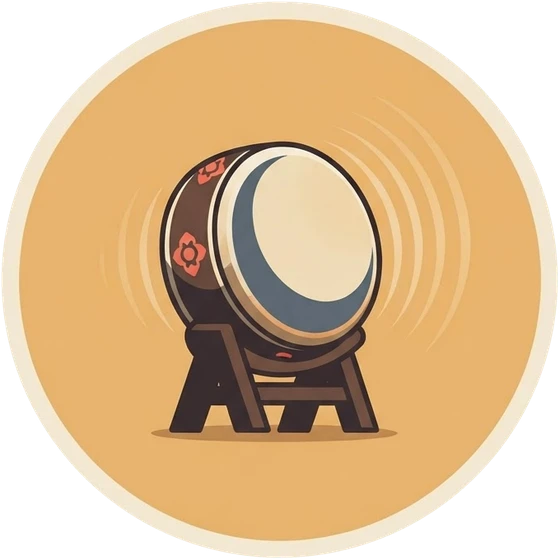
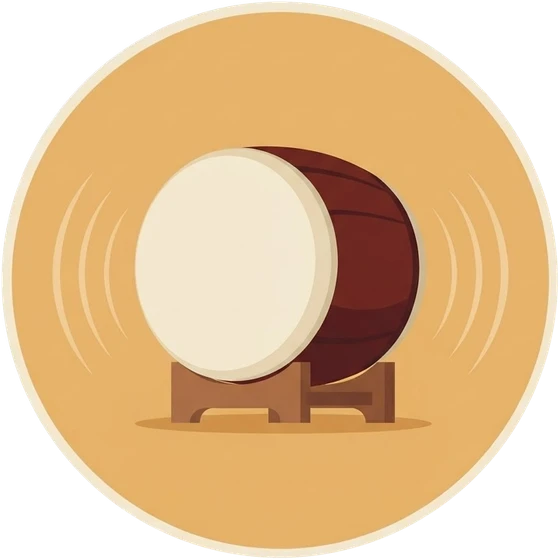
v206 표지 일러스트 추가: 42 북·44 자석 다시, 45 얼음산, 47 겨울나무, 48 서리, 49 고드름
Claude-Session: https://claude.ai/code/session_01BERWee5SW6nSaidm893bbT

diff --git a/gunggeum/pieces/ep/47.js b/gunggeum/pieces/ep/47.js
@@ -13,18 +13,10 @@ const leafD=(L)=>`M0,0C${L*.35},${-L*.3} ${L*.75},${-L*.25} ${L},0C${L*.75},${L*
 
 EPX[47]={day:'과학 16',topic:'겨울눈',cat:'나무의 겨울',field:'과학',frame:'v2',
  cover:{h:'나무는<br>겨울을 어떻게<br>날까?',draw(S){
-   const GY=640;wl(S,648,GY,1504,GY,W0m);
-   // 잎 진 나무 가지(선) — 가지 끝마다 겨울눈
-   const T=[[[1060,GY],[1060,470],[1000,380],[930,300],[880,200]],[[1060,470],[1150,360],[1240,250],[1290,160]],[[1000,380],[860,330],[760,300]],[[1150,360],[1300,340],[1420,300]],[[930,300],[980,200],[1000,140]],[[1240,250],[1200,170]]];
-   twig(S,T[0],18);twig(S,T[1],12);T.slice(2).forEach(P=>twig(S,P,7));
-   const tips=T.map(P=>P[P.length-1]);const B=tips.map(([x,y],k)=>{const g=bud(S,x,y,0,{plain:true});return g;});
-   const BB=tips.map(([x,y],k)=>({x,y,b:bud(S,x,y-2,34,{col:k===1?WO:W0,plain:true})}));
-   el('path',{d:`M${tips[1][0]+14},${tips[1][1]-20}H1490V${tips[1][1]+40}`,fill:'none',stroke:W0m,'stroke-width':2},S);tx(S,1490,tips[1][1]+76,'겨울눈','v28','end');
-   tx(S,648,GY+38,'관측 · 12월 잎 진 나무','v22m');
-   // 땅의 낙엽(크림 작은 잎)
-   const q=rnd(47);for(let i=0;i<14;i++)el('path',{d:leafD(30),fill:W0,transform:`translate(${700+q()*780},${GY-6-q()*8}) rotate(${(q()-.5)*40})`},S);
-   let on=false;
-   return ()=>{if(on||calm())return;on=true;loop(S,t=>{const c=t%5,e=c<1?EO(c):c<4?1:1-(c-4);BB.forEach(o=>o.b.g.setAttribute('transform',`translate(${o.x},${o.y-2}) scale(${.75+.25*e})`));});};}},
+   /* v206: 생성 일러스트 */
+   const P=el('g',{},S);el('image',{href:'art/47-tree.webp',x:860,y:150,width:500,height:500},P);
+   tx(S,1110,712,'잎 진 나무와 겨울눈','v22m','middle');
+   let on=false;return ()=>{if(on||calm())return;on=true;loop(S,t=>P.setAttribute('transform',`translate(0,${(4*Math.sin(t*.6)).toFixed(1)})`));};}},
  scenes:[
   {k:'잎 떨구기',h:'나무는 겨울 전에<br>잎을 떨군다',b:'잎을 달고 있으면 몸속 물이 자꾸 빠져나가. 그래서 나무는 잎을 떨궈 <em>물을 아껴</em>.',steps:['잎 떨구기'],
    draw(S){const GY=640;wl(S,640,GY,1504,GY,W0);

diff --git a/gunggeum/pieces/ep/49.js b/gunggeum/pieces/ep/49.js
@@ -9,17 +9,10 @@ function vTherm(S,x,y1,y2,y0,lab0){wl(S,x,y1,x,y2,W0m);for(let y=y1,i=0;y<=y2+1;
  wl(S,x-24,y0,x+10,y0,W0);tx(S,x+20,y0+8,lab0,'v22');}
 EPX[49]={day:'12월 4일',topic:'고드름',cat:'겨울 얼음',field:'과학',frame:'v2',
  cover:{h:'고드름은<br>어떻게<br>자랄까?',draw(S){
-   const Y=170;eave(S,Y);tx(S,640,Y-58,'처마 끝 · 겨울 낮','v22m');
-   const L=[[720,150,36],[800,300,52],[900,210,40],[1010,420,64],[1110,250,44],[1200,340,54],[1300,180,38],[1390,270,46]];
-   L.forEach(([x,l,w])=>ice(S,x,Y+14,l,w));
-   // 길이 눈금(오른쪽)
-   const RX=1480;wl(S,RX,Y+14,RX,Y+14+440,W0m);for(let i=0;i<=22;i++){const y=Y+14+i*20;wl(S,RX,y,RX-(i%5===0?18:10),y,i%5===0?W0:W0m);}tx(S,RX,Y+14+480,'길이','v22m','end');
-   wl(S,640,690,1504,690,W0m);tx(S,640,660,'영하의 공기','v22m');
-   // 물방울 하나가 가장 긴 고드름 겉을 타고 내려가 끝에서 떨어짐(반복은 표지만)
-   const d=wdot(S,1010+30,Y+18,7,WO);let on=false;
-   return ()=>{if(on||calm())return;on=true;loop(S,t=>{const c=(t%3)/3;let y,x;
-     if(c<.75){const k=c/.75;y=Y+18+k*(420-6);x=1010+(32*(1-k*k*.95))*(1-k);}else{const k=(c-.75)/.25;y=Y+14+420+k*120;x=1010;}
-     d.setAttribute('cx',x.toFixed(1));d.setAttribute('cy',y.toFixed(1));d.setAttribute('opacity',c<.95?1:0);});};}},
+   /* v206: 생성 일러스트 */
+   const P=el('g',{},S);el('image',{href:'art/49-icicle.webp',x:860,y:150,width:500,height:500},P);
+   tx(S,1110,712,'처마 끝 고드름','v22m','middle');
+   let on=false;return ()=>{if(on||calm())return;on=true;loop(S,t=>P.setAttribute('transform',`translate(0,${(4*Math.sin(t*.6)).toFixed(1)})`));};}},
  scenes:[
   {k:'녹은 물',h:'지붕 위 눈이<br>녹아 흘러내린다',b:'햇볕을 받으면 지붕 위 눈이 조금씩 녹아. 그런데 처마 밑 공기는 <em>0도보다 추워</em>.',steps:['햇볕 비추기'],
    draw(S){// 비스듬한 지붕 단면: 왼쪽 위 → 오른쪽 아래 처마 끝(1180,380)

diff --git a/gunggeum/pieces/ep/48.js b/gunggeum/pieces/ep/48.js
@@ -17,16 +17,10 @@ function thermo(p,x,yTop,yBot,tTop,tBot,lab){wl(p,x,yTop,x,yBot,W0m);const Y=t=>
 
 EPX[48]={day:'과학 17',topic:'서리',cat:'날씨',field:'과학',frame:'v2',
  cover:{h:'서리는<br>어떻게<br>생길까?',draw(S){
-   const GY=620;wl(S,648,GY,1504,GY,W0);
-   const B=[[740,300,40],[850,380,-30],[960,260,60],[1080,420,-50],[1200,330,30],[1310,280,-40],[1420,360,40]].map(([x,h,b])=>blade(S,x,GY,h,b,44));
-   const F=B.map((bl,k)=>frost(S,bl.P,16,W0,k+3));
-   // 온도 눈금(가로): 0도 = 산호
-   const y0=130;wl(S,880,y0,1504,y0,W0m);for(let i=0;i<=12;i++){const x=880+i*52;wl(S,x,y0,x,y0+(i%4===0?18:10),i%4===0?W0:W0m);}
-   tx(S,880,y0-22,'따뜻함','v22m');tx(S,1504,y0-22,'추움','v22m','end');const zx=880+8*52;wl(S,zx,y0-8,zx,y0+26,WO);tx(S,zx,y0+60,'0도','v28','middle');
-   el('path',{d:`M1046,${GY-330}H700V${GY-380}`,fill:'none',stroke:W0m,'stroke-width':2},S);tx(S,700,GY-396,'서리','v28','middle');
-   tx(S,648,GY+40,'관측 · 맑은 겨울 아침, 풀밭','v22m');
-   let on=false;F.forEach(f=>f.grow(1));
-   return ()=>{if(on||calm())return;on=true;loop(S,t=>{const c=t%6,e=c<2?EO(c/2):c<4.8?1:1-(c-4.8)/1.2;F.forEach(f=>f.grow(e));});};}},
+   /* v206: 생성 일러스트 */
+   const P=el('g',{},S);el('image',{href:'art/48-frost.webp',x:860,y:150,width:500,height:500},P);
+   tx(S,1110,712,'서리 내린 아침','v22m','middle');
+   let on=false;return ()=>{if(on||calm())return;on=true;loop(S,t=>P.setAttribute('transform',`translate(0,${(4*Math.sin(t*.6)).toFixed(1)})`));};}},
  scenes:[
   {k:'맑은 밤',h:'맑은 밤에는<br>땅이 차갑게 식는다',b:'구름 없는 밤엔 땅의 열이 하늘로 술술 빠져나가. 그래서 아침엔 땅과 풀잎이 <em>공기보다 더</em> 차가워져.',steps:['밤이 깊어지면'],
    draw(S){const GY=600;wl(S,640,GY,1504,GY,W0);tx(S,640,160,'맑은 밤 · 구름 없음','v28');

diff --git a/gunggeum/pieces/ep/45.js b/gunggeum/pieces/ep/45.js
@@ -10,20 +10,10 @@ function tube(p,x,base,w,u,n){const g=el('g',{},p);const top=base-n*u;
 
 EPX[45]={day:'과학 14',topic:'얼음',cat:'물의 변신',field:'과학',frame:'v2',
  cover:{h:'얼음은 왜<br>물에<br>뜰까?',draw(S){
-   // 큰 물그릇 단면(보조색 물) + 떠 있는 얼음(크림). 얼음 10칸 중 9칸이 물속.
-   const X0=760,X1=1400,WY=300,BY=640;
-   const water=el('rect',{x:X0,y:WY,width:X1-X0,height:BY-WY,fill:WA},S);
-   el('path',{d:`M${X0},150V${BY}H${X1}V150`,fill:'none',stroke:W0,'stroke-width':2},S);
-   const H=300,u=H/10,ice=el('g',{},S);el('rect',{x:-110,y:0,width:220,height:H,fill:ICE},ice);
-   for(let i=1;i<10;i++)wl(ice,-110,i*u,-80,i*u,WA);
-   const ix=1080;const top0=WY-u;mv(ice,ix,top0);
-   wl(S,X0-40,WY,X1+40,WY,WO);tx(S,648,WY-16,'물 높이','v22');
-   // 오른쪽 이름표: 위 1칸, 아래 9칸
-   el('path',{d:`M${ix+120},${WY-u/2}H1500`,fill:'none',stroke:W0m,'stroke-width':2},S);tx(S,1416,WY-u/2-16,'물 위 1','v28');
-   el('path',{d:`M${ix+120},${WY+160}H1500`,fill:'none',stroke:W0m,'stroke-width':2},S);tx(S,1416,WY+144,'물속 9','v28');
-   tx(S,X0,BY+44,'관측 · 물에 띄운 얼음 한 덩이','v22m');
-   let on=false;
-   return ()=>{if(on||calm())return;on=true;loop(S,t=>{mv(ice,ix,top0+Math.sin(t*1.6)*6);});};}},
+   /* v206: 생성 일러스트 */
+   const P=el('g',{},S);el('image',{href:'art/45-iceberg.webp',x:860,y:150,width:500,height:500},P);
+   tx(S,1110,712,'바다에 뜬 얼음산','v22m','middle');
+   let on=false;return ()=>{if(on||calm())return;on=true;loop(S,t=>P.setAttribute('transform',`translate(0,${(4*Math.sin(t*.6)).toFixed(1)})`));};}},
  scenes:[
   {k:'얼면 커진다',h:'물은 얼면<br>몸집이 커진다',b:'물을 얼리면 <em>몸집</em>이 커져. 물이 10칸이면 얼음은 <em>11칸</em>쯤이 돼.',steps:['얼리기'],
    draw(S){const base=640,u=36;

diff --git a/gunggeum/pieces/ep/44.js b/gunggeum/pieces/ep/44.js
@@ -19,10 +19,10 @@ const mv=(g,x,y,r=0)=>g.setAttribute('transform',`translate(${x},${y})${r?` rota
 
 EPX[44]={day:'과학 13',topic:'자석',cat:'끌어당기는 힘',field:'과학',frame:'v2',
  cover:{h:'자석은 왜<br>쇠에<br>붙을까?',draw(S){
-   /* v206: 생성 일러스트(말굽자석과 클립) */
-   const P=el('g',{},S);el('image',{href:'art/44-magnet.webp',x:870,y:160,width:470,height:500},P);
-   tx(S,1110,712,'말굽자석과 클립','v22m','middle');
-   let on=false;return ()=>{if(on||calm())return;on=true;loop(S,t=>P.setAttribute('transform',`rotate(${(1.2*Math.sin(t*.7)).toFixed(2)} 1110 300)`));};}},
+   /* v206: 생성 일러스트(말굽자석과 못) */
+   const P=el('g',{},S);el('image',{href:'art/44-magnet.webp',x:860,y:150,width:500,height:500},P);
+   tx(S,1110,712,'말굽자석과 쇠못','v22m','middle');
+   let on=false;return ()=>{if(on||calm())return;on=true;loop(S,t=>P.setAttribute('transform',`translate(0,${(4*Math.sin(t*.6)).toFixed(1)})`));};}},
  scenes:[
   {k:'붙는 것',h:'자석은 쇠를<br>끌어당긴다',b:'자석은 <em>쇠</em>로 된 클립이나 못을 끌어당겨. 나무 막대는 자석을 대 봐도 꼼짝 안 해.',steps:['자석 내리기'],
    draw(S){const GY=600;wl(S,660,GY,1504,GY,W0);
